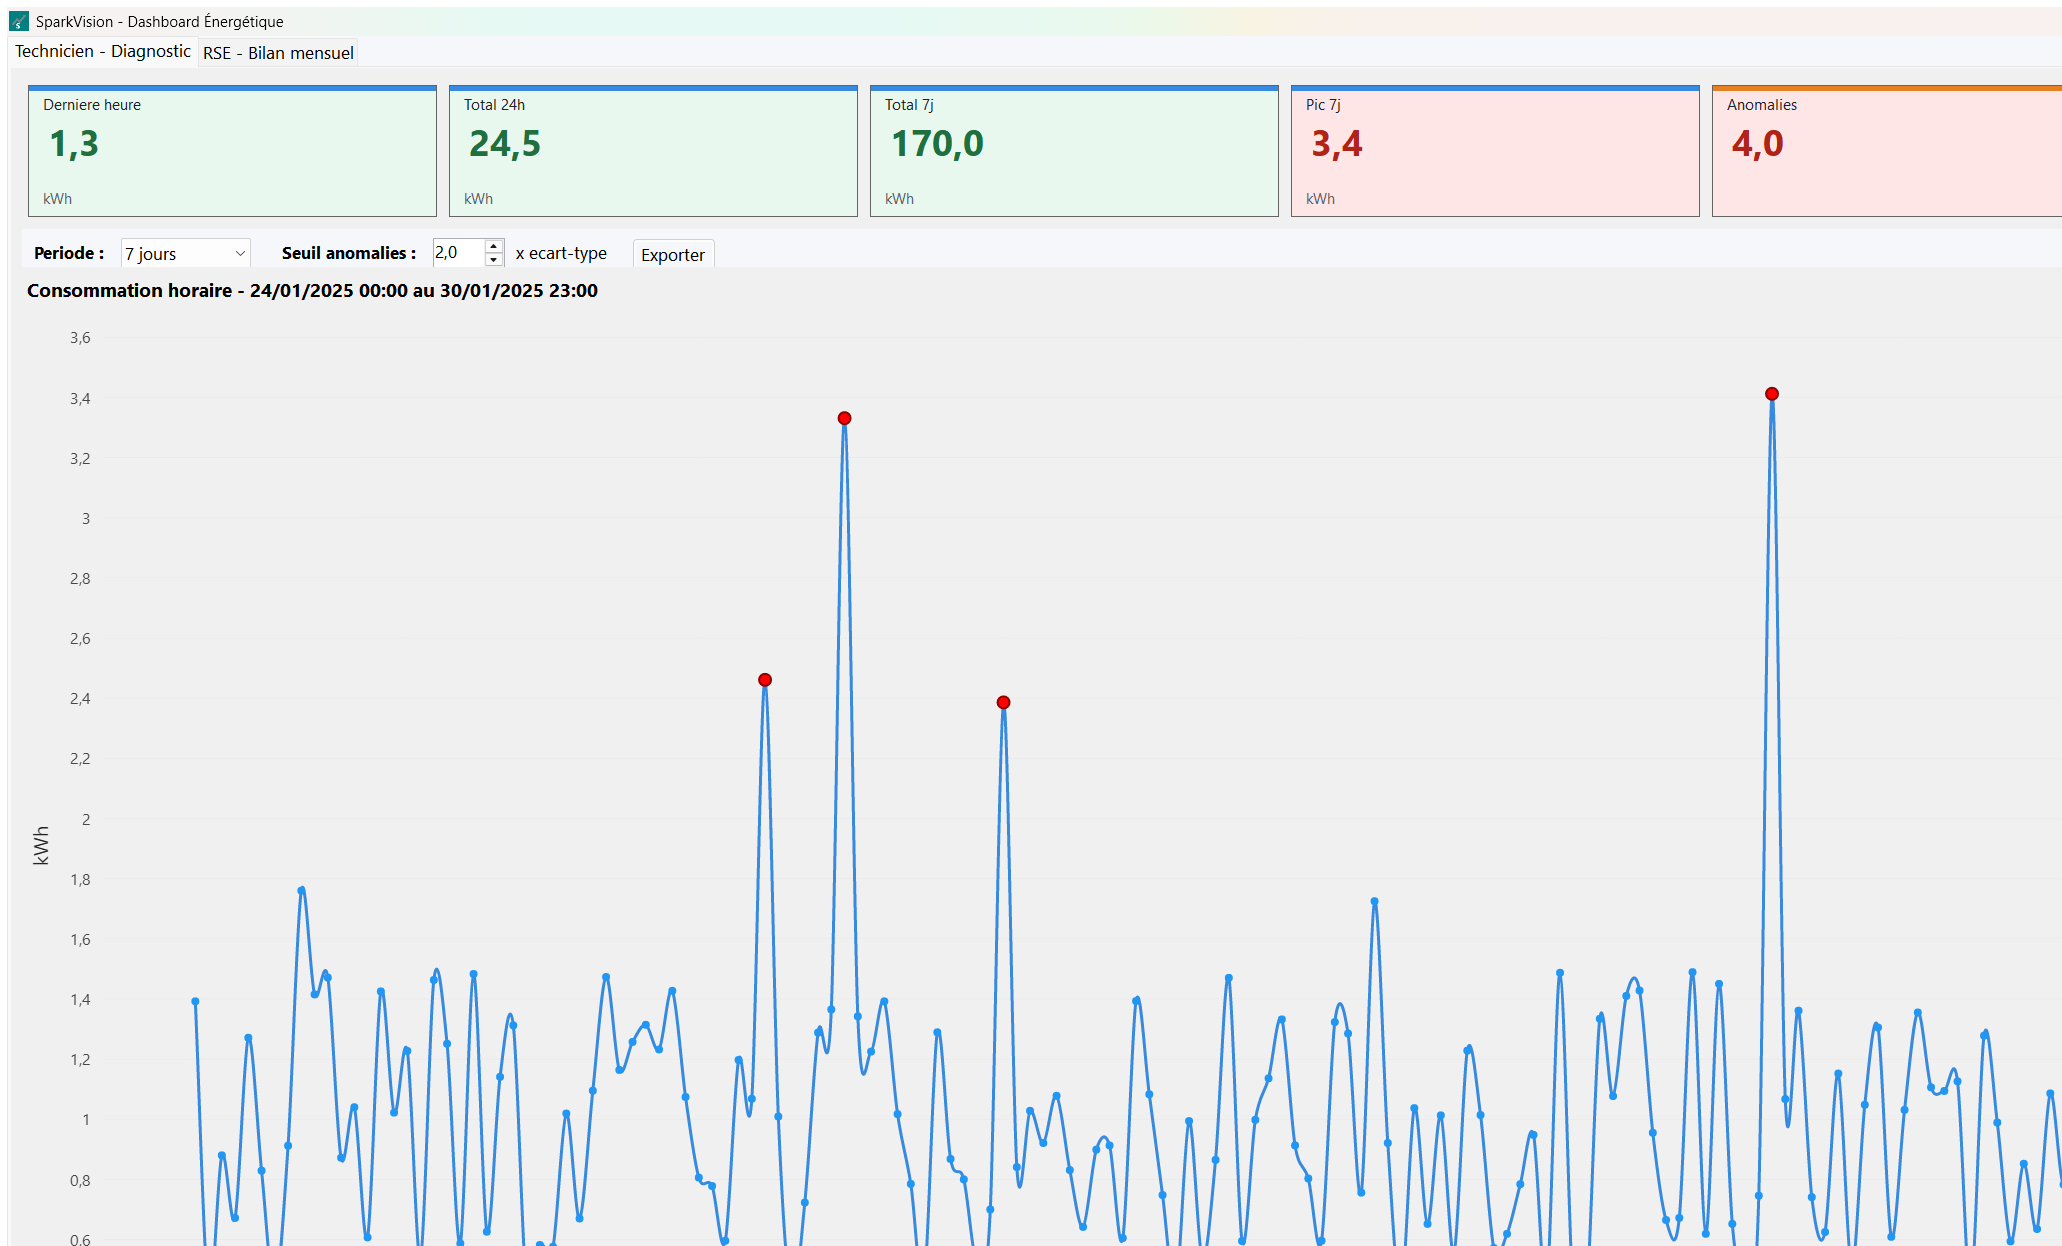
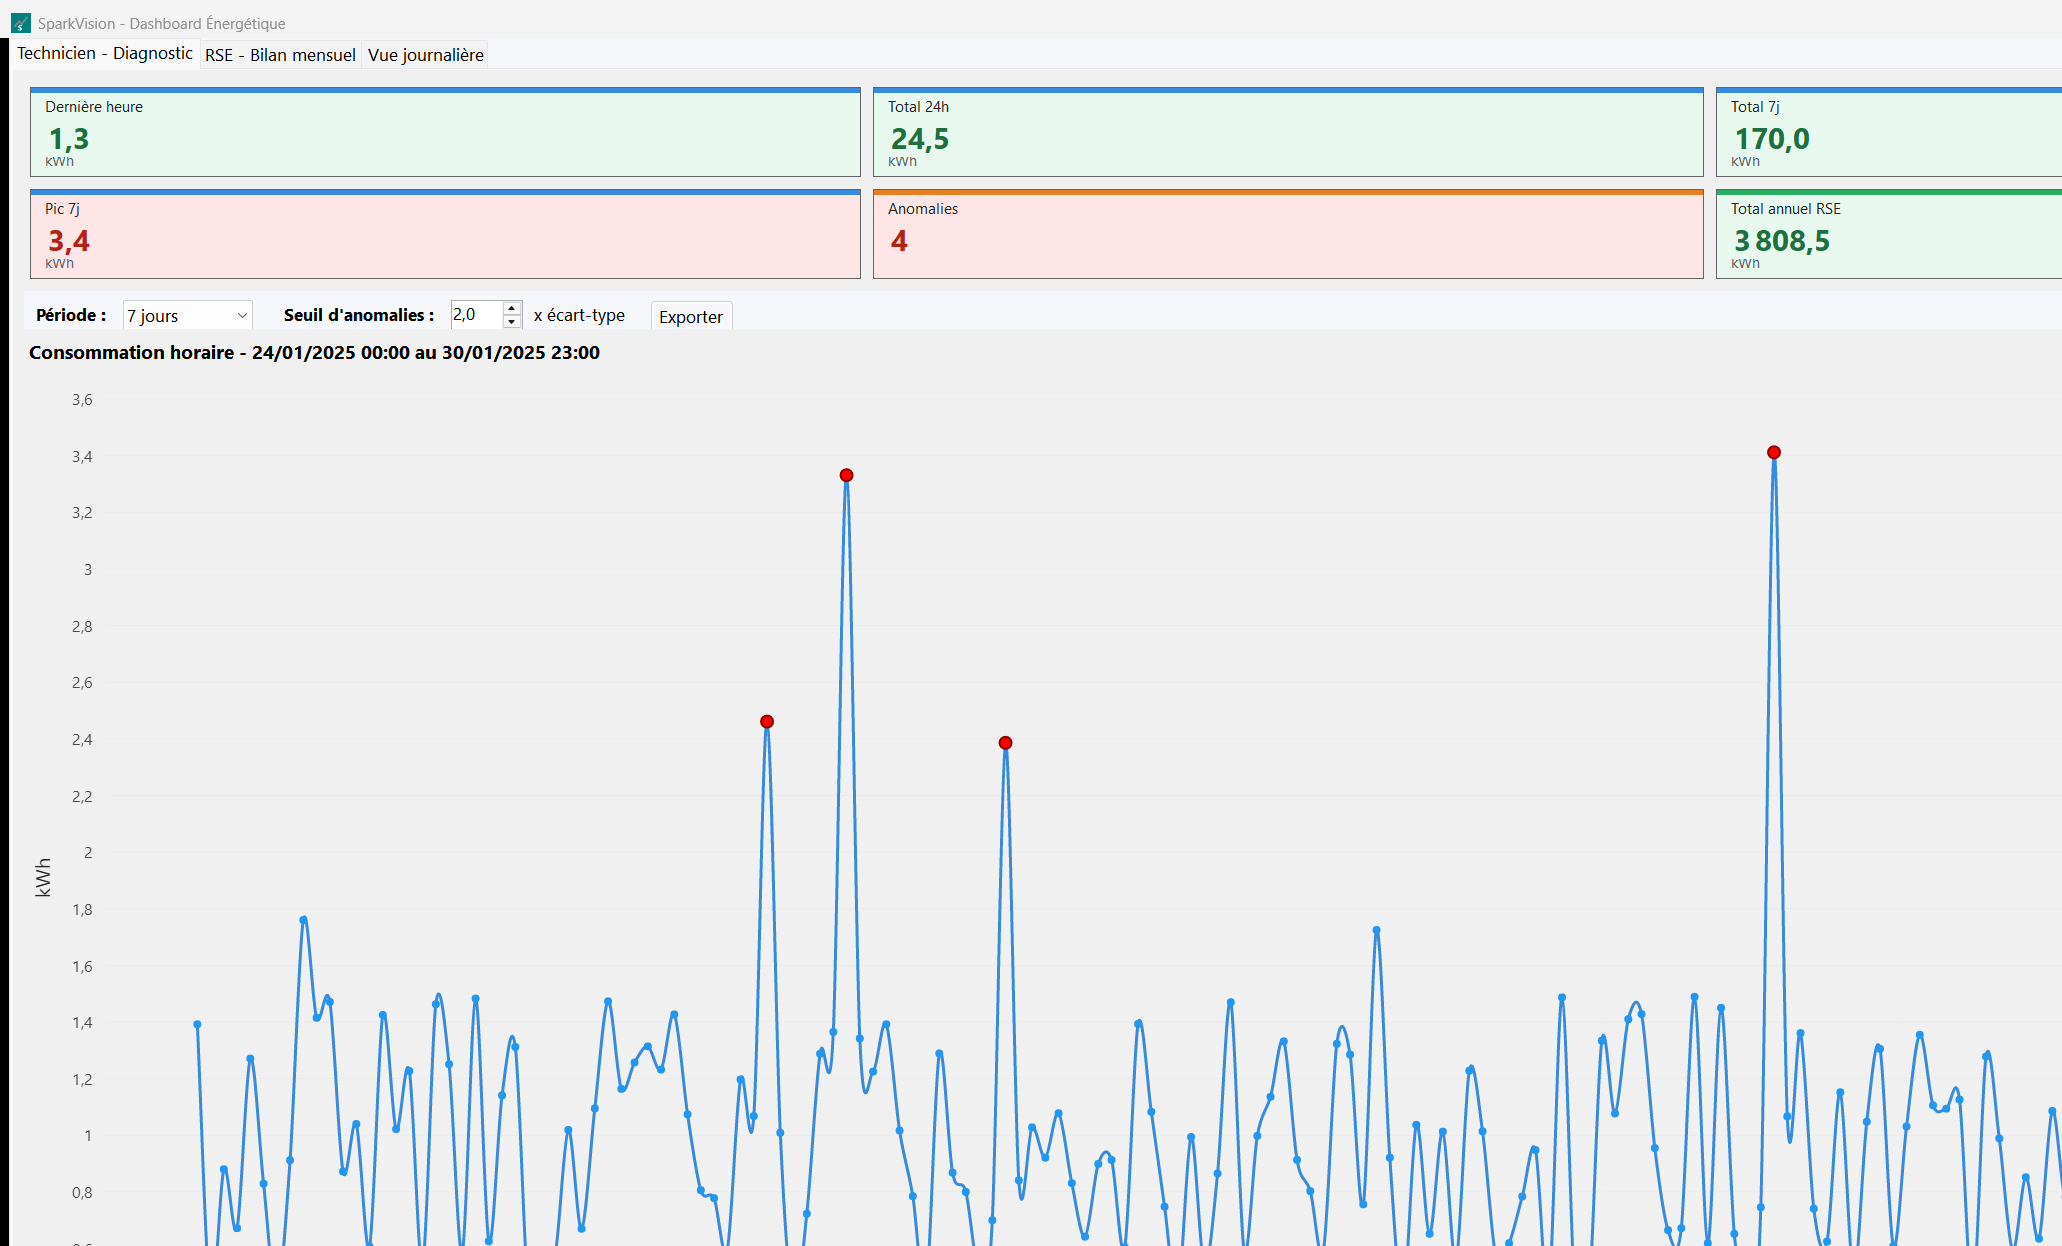
Polish dashboard labels and KPI formatting

Changed region(s): [[0.0931, 0.305, 1.0, 1.0], [0.0, 0.0, 1.0, 1.0], [0.3414, 0.549, 0.3725, 0.6709]]

diff --git a/SparkVision.WinForms/Forms/FormDashboard.cs b/SparkVision.WinForms/Forms/FormDashboard.cs
@@ -87,7 +87,7 @@ public class FormDashboard : Form
 
     public FormDashboard()
     {
-        Text = "SparkVision - Dashboard Energetique";
+        Text = "SparkVision - Dashboard Énergétique";
         ChargerIconeFenetre();
         WindowState = FormWindowState.Maximized;
         Font = new Font("Segoe UI", 10);
@@ -102,7 +102,7 @@ public class FormDashboard : Form
         var tabs = new TabControl { Dock = DockStyle.Fill };
         var tabTech = new TabPage("Technicien - Diagnostic");
         var tabRse = new TabPage("RSE - Bilan mensuel");
-        var tabJour = new TabPage("Vue journaliere");
+        var tabJour = new TabPage("Vue journalière");
 
         tabTech.Controls.Add(BuildLayoutTechnicien());
         tabRse.Controls.Add(BuildLayoutRse());
@@ -169,7 +169,7 @@ public class FormDashboard : Form
 
         _kpis = new Dictionary<string, KpiCard>
         {
-            ["LAST_HOUR"] = new KpiCard("Derniere heure", Color.FromArgb(55, 138, 221)),
+            ["LAST_HOUR"] = new KpiCard("Dernière heure", Color.FromArgb(55, 138, 221)),
             ["DAY_TOTAL"] = new KpiCard("Total 24h", Color.FromArgb(55, 138, 221)),
             ["WEEK_TOTAL"] = new KpiCard("Total 7j", Color.FromArgb(55, 138, 221)),
             ["WEEK_PEAK"] = new KpiCard("Pic 7j", Color.FromArgb(55, 138, 221)),
@@ -198,7 +198,7 @@ public class FormDashboard : Form
         };
         row.Controls.Add(new Label
         {
-            Text = "Periode :",
+            Text = "Période :",
             AutoSize = true,
             Font = new Font("Segoe UI", 10, FontStyle.Bold),
             Margin = new Padding(0, 6, 8, 0)
@@ -216,13 +216,13 @@ public class FormDashboard : Form
             };
             ChargerKpis();
             ChargerTechnicien();
-            _lblStatus.Text = $"Periode technicien : {_cmbPeriode.SelectedItem}";
+            _lblStatus.Text = $"Période technicien : {_cmbPeriode.SelectedItem}";
         };
         row.Controls.Add(_cmbPeriode);
 
         row.Controls.Add(new Label
         {
-            Text = "Seuil anomalies :",
+            Text = "Seuil d'anomalies :",
             AutoSize = true,
             Font = new Font("Segoe UI", 10, FontStyle.Bold),
             Margin = new Padding(24, 6, 8, 0)
@@ -230,7 +230,7 @@ public class FormDashboard : Form
         row.Controls.Add(_numSeuil);
         row.Controls.Add(new Label
         {
-            Text = "x ecart-type",
+            Text = "x écart-type",
             AutoSize = true,
             Margin = new Padding(4, 6, 16, 0)
         });
@@ -238,7 +238,7 @@ public class FormDashboard : Form
         {
             ChargerKpis();
             ChargerTechnicien();
-            _lblStatus.Text = $"Seuil anomalies : {_numSeuil.Value:N1}x ecart-type";
+            _lblStatus.Text = $"Seuil d'anomalies : {_numSeuil.Value:N1}x écart-type";
         };
 
         _btnExport.Click += (_, _) => ExporterTechnicien();
@@ -435,7 +435,7 @@ public class FormDashboard : Form
         }
         else
         {
-            _lblTechTitre.Text = "Consommation horaire - aucune donnee pour cette periode";
+            _lblTechTitre.Text = "Consommation horaire - aucune donnée pour cette période";
         }
     }
 
@@ -444,7 +444,7 @@ public class FormDashboard : Form
         var data = _service.GetRse();
         if (data.Count == 0)
         {
-            _lblRseResume.Text = "Aucune donnee RSE chargee.";
+            _lblRseResume.Text = "Aucune donnée RSE chargée.";
             _gridRse.DataSource = null;
             _chartRse.Series = Array.Empty<ISeries>();
             return;
@@ -504,7 +504,7 @@ public class FormDashboard : Form
 
         var totalAnnuel = data.Sum(m => m.Postes.Values.Sum());
         _lblRseResume.Text =
-            $"Bilan RSE par poste - {data.First().Mois} a {data.Last().Mois} | total annuel {totalAnnuel:N1} kWh | {BuildTransitionText(data)}";
+            $"Bilan RSE par poste - {data.First().Mois} à {data.Last().Mois} | total annuel {totalAnnuel:N1} kWh | {BuildTransitionText(data)}";
         _chartRse.Update();
     }
 
@@ -529,14 +529,14 @@ public class FormDashboard : Form
 
         if (data.Count == 0)
         {
-            _lblJourTitre.Text = "Agregation journaliere - aucune donnee";
+            _lblJourTitre.Text = "Agrégation journalière - aucune donnée";
             return;
         }
 
         var total = data.Sum(p => p.Valeur);
         var moyenne = data.Average(p => p.Valeur);
         _lblJourTitre.Text =
-            $"Agregation journaliere - {data.First().Horodatage:dd/MM/yyyy} au {data.Last().Horodatage:dd/MM/yyyy} | total {total:N1} kWh | moyenne {moyenne:N1} kWh/jour";
+            $"Agrégation journalière - {data.First().Horodatage:dd/MM/yyyy} au {data.Last().Horodatage:dd/MM/yyyy} | total {total:N1} kWh | moyenne {moyenne:N1} kWh/jour";
         _chartJour.Update();
     }
 
@@ -615,7 +615,7 @@ public class FormDashboard : Form
     {
         if (_donneesTechAffichees.Count == 0)
         {
-            MessageBox.Show("Aucune donnee technicien a exporter.", "SparkVision", MessageBoxButtons.OK, MessageBoxIcon.Information);
+            MessageBox.Show("Aucune donnée technicien à exporter.", "SparkVision", MessageBoxButtons.OK, MessageBoxIcon.Information);
             return;
         }
 
@@ -634,7 +634,7 @@ public class FormDashboard : Form
         lignes.AddRange(_donneesTechAffichees.Select(p =>
             $"{p.Horodatage:yyyy-MM-dd HH:mm:ss};{p.Valeur.ToString(CultureInfo.InvariantCulture)};{p.Anomalie}"));
         File.WriteAllLines(dialog.FileName, lignes, Encoding.UTF8);
-        _lblStatus.Text = $"Export CSV cree : {dialog.FileName}";
+        _lblStatus.Text = $"Export CSV créé : {dialog.FileName}";
     }
 
     private void ChargerIconeFenetre()
@@ -651,7 +651,7 @@ public class FormDashboard : Form
         var dernier = data.LastOrDefault();
         if (dernier is null)
         {
-            return "Transition energetique : aucune donnee";
+            return "Transition énergétique : aucune donnée";
         }
 
         var dernierMois = DateTime.ParseExact(dernier.Mois + "-01", "yyyy-MM-dd", CultureInfo.InvariantCulture);
@@ -664,8 +664,8 @@ public class FormDashboard : Form
 
         var precedent = data.Count >= 2 ? data[^2] : null;
         return precedent is null
-            ? "Transition energetique : comparaison indisponible"
-            : BuildEvolutionText("mois precedent", dernier, precedent);
+            ? "Transition énergétique : comparaison indisponible"
+            : BuildEvolutionText("mois précédent", dernier, precedent);
     }
 
     private static string BuildEvolutionText(string reference, RseMoisModel courant, RseMoisModel precedent)
@@ -674,11 +674,11 @@ public class FormDashboard : Form
         var precedentTotal = precedent.Postes.Values.Sum();
         if (precedentTotal <= 0)
         {
-            return $"Transition energetique : reference {reference} indisponible";
+            return $"Transition énergétique : référence {reference} indisponible";
         }
 
         var variation = (courantTotal - precedentTotal) / precedentTotal * 100.0;
         var fleche = variation <= 0 ? "↓" : "↑";
-        return $"Transition energetique : {fleche} {Math.Abs(variation):N1}% vs {reference}";
+        return $"Transition énergétique : {fleche} {Math.Abs(variation):N1}% vs {reference}";
     }
 }

diff --git a/SparkVision.WinForms/Controls/KpiCard.cs b/SparkVision.WinForms/Controls/KpiCard.cs
@@ -33,7 +33,9 @@ public class KpiCard : Panel
 
     public void Mettre(double? valeur, string unite, double? warning = null, double? danger = null)
     {
-        _valeur.Text = valeur.HasValue ? $"{valeur.Value:N1}" : "-";
+        _valeur.Text = valeur.HasValue
+            ? string.IsNullOrWhiteSpace(unite) ? $"{valeur.Value:N0}" : $"{valeur.Value:N1}"
+            : "-";
         _unite.Text = unite;
         AppliquerEtat(valeur, warning, danger);
     }